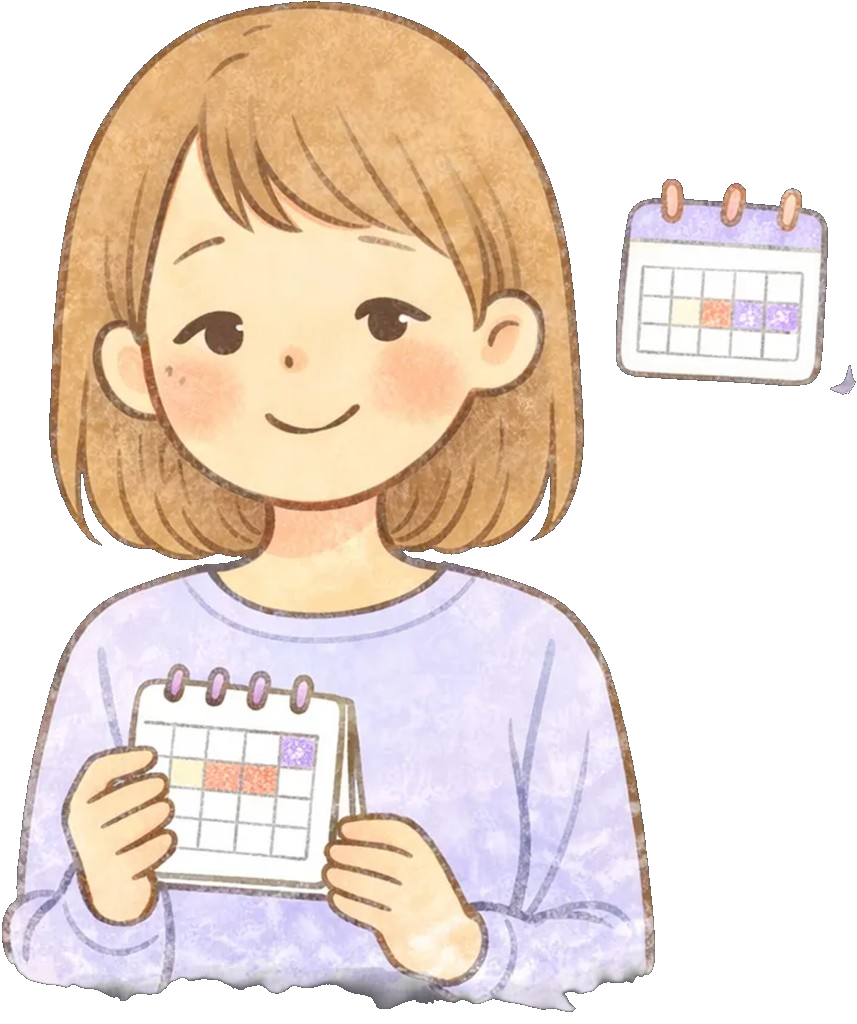
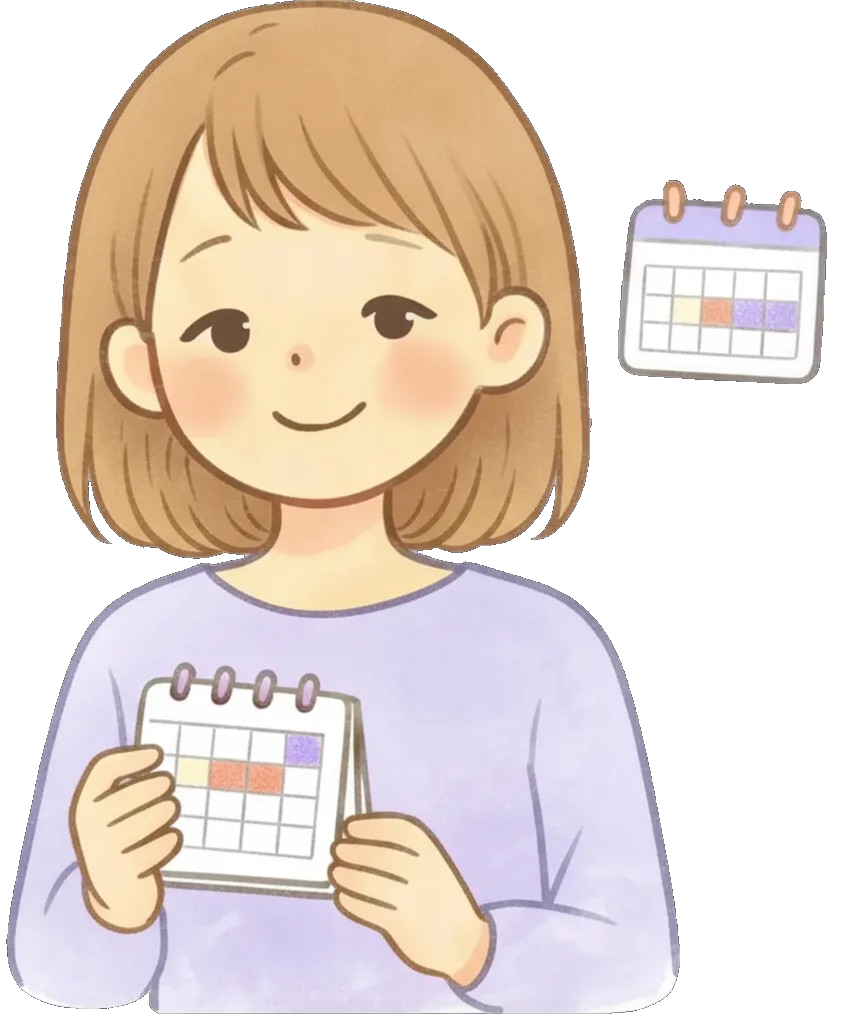
fix: 엄마 유형 일러스트 5종 교체 및 사이즈 보정
- 계획형, 균형형, 페이스형, 혼합형, 회복이필요한 엄마 일러스트 교체
- 공감형 엄마 scale(1.125), 계획형 엄마 scale(1.07) 사이즈 보정

diff --git a/docs/index.html b/docs/index.html
@@ -223,8 +223,8 @@
           setChildInfo({ name: '하은', birthDate: '2024-06-15' });
           // 섬세파 아이: sensitivity(q8)=9
           setChildProfile({ q0: 5, q1: 6, q2: 5, q3: 4, q4: 6, q5: 5, q6: 5, q7: 5, q8: 9 });
-          // 여유형 엄마: stressTolerance(p0)>=7, perfectionism(p3)<=4
-          setParentProfile({ p0: 8, p1: 5, p2: 5, p3: 3, p4: 7 });
+          // 혼합형 엄마: 극단 있음 (responseSpeed<=2 or >=8, energyLevel<=2 or >=8)
+          setParentProfile({ p0: 5, p1: 9, p2: 5, p3: 5, p4: 2 });
           setBehaviorInput('아이가 시끄러운 곳에 가면 울고 옷 입는 걸 많이 거부해요');
           setStep('report');
         }

diff --git a/web/public/index.html b/web/public/index.html
@@ -223,8 +223,8 @@
           setChildInfo({ name: '하은', birthDate: '2024-06-15' });
           // 섬세파 아이: sensitivity(q8)=9
           setChildProfile({ q0: 5, q1: 6, q2: 5, q3: 4, q4: 6, q5: 5, q6: 5, q7: 5, q8: 9 });
-          // 여유형 엄마: stressTolerance(p0)>=7, perfectionism(p3)<=4
-          setParentProfile({ p0: 8, p1: 5, p2: 5, p3: 3, p4: 7 });
+          // 혼합형 엄마: 극단 있음 (responseSpeed<=2 or >=8, energyLevel<=2 or >=8)
+          setParentProfile({ p0: 5, p1: 9, p2: 5, p3: 5, p4: 2 });
           setBehaviorInput('아이가 시끄러운 곳에 가면 울고 옷 입는 걸 많이 거부해요');
           setStep('report');
         }
